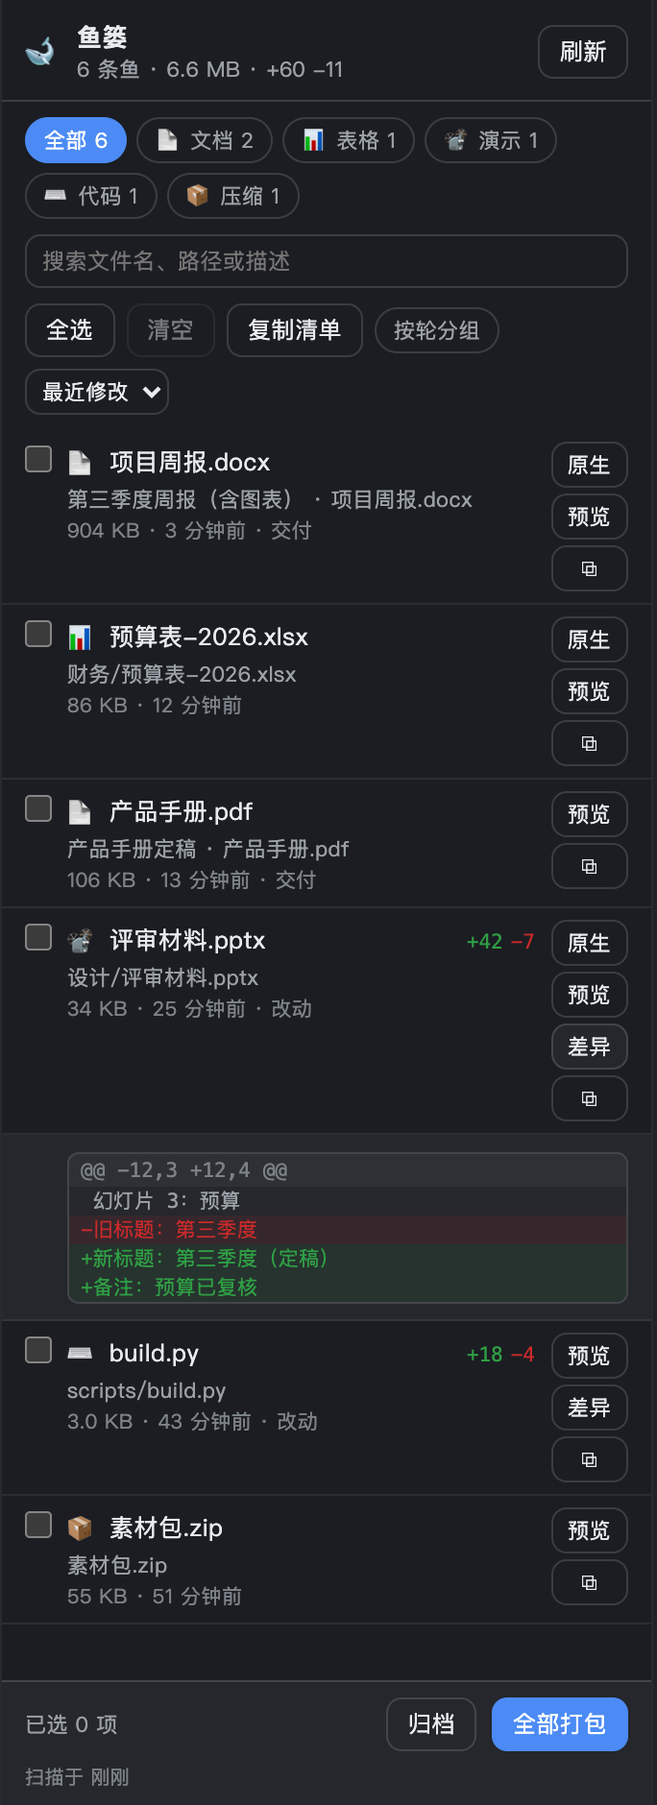
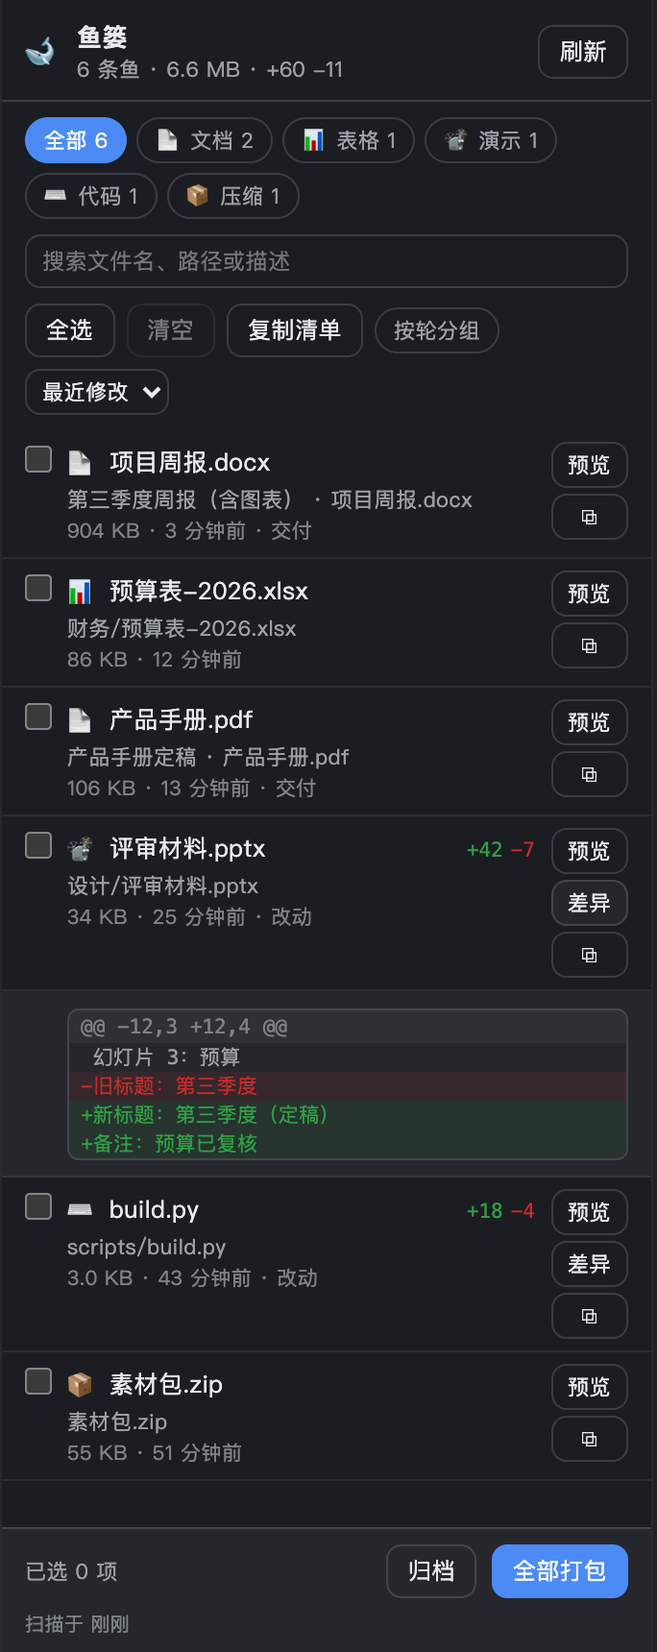
fix: 0.3.2 —— 预览统一走 Document Preview，修复 Desktop 静默失败
- Desktop 的 Electron 主进程 deny 所有 window.open（只放行 https 外链），原 /file 预览被静默拦截，表现为「点预览没反应」
- 预览改为 sidebarRight.openResource(file.native, { kind: 'text' })：图片/PDF/Markdown/文本/源码/Office 都在右侧栏打开
- cwd 外文件没有 native 地址时明确提示「复制路径或归档」；移除单独「原生」按钮
- 新增回归测试禁止客户端再出现 window.open(；README/README.en 预览图与文档同步；测试 68

diff --git a/lib/client.js b/lib/client.js
@@ -35,13 +35,11 @@
       var API = '/whale-catch/api/'
       /** 列表一次最多铺多少行；更大的鱼篓用「显示更多」分批渲染。 */
       var PAGE = 200
-      /** 浏览器侧 ctx，apply 时赋好；行内按钮靠它取 sidebarRight 打开原生预览。 */
+      /** 浏览器侧 ctx，apply 时赋好；预览按钮靠它取 sidebarRight 打开 Document Preview。 */
       var clientCtx = null
 
       /** 分类顺序与 Host 的 kinds.js 保持一致。 */
       var KINDS = ['doc', 'sheet', 'slide', 'image', 'code', 'archive', 'media', 'other']
-      /** 有 DSH 原生预览价值的 Office 后缀；其余文件继续走 /file 内联预览。 */
-      var NATIVE_EXTS = ['doc', 'docx', 'xls', 'xlsx', 'ppt', 'pptx']
       var KIND_EMOJI = {
         doc: '📄', sheet: '📊', slide: '📽', image: '🖼',
         code: '⌨', archive: '📦', media: '🎬', other: '🐚',
@@ -72,9 +70,8 @@
         'presented': '交付',
         'missing': '已删除',
         'open': '预览',
-        'nativeOpen': '用 DSH 原生预览打开',
-        'nativeShort': '原生',
-        'nativeFailed': '原生预览打不开，已回退普通预览',
+        'previewUnavailable': '这个文件不在会话工作目录里，暂时不能预览；可以复制路径或归档',
+        'previewFailed': '预览打不开；可以复制路径或归档',
         'copy': '复制路径',
         'copied': '路径已复制',
         'select': '选择',
@@ -156,9 +153,8 @@
         'presented': 'Delivered',
         'missing': 'Missing',
         'open': 'Open',
-        'nativeOpen': 'Open in the native DSH preview',
-        'nativeShort': 'Native',
-        'nativeFailed': 'Native preview failed — fell back to the normal preview',
+        'previewUnavailable': 'This file is outside the session working directory, so it cannot be previewed; copy its path or archive it instead',
+        'previewFailed': 'Preview could not open; copy the path or archive the file instead',
         'copy': 'Copy path',
         'copied': 'Path copied',
         'select': 'Select',
@@ -615,37 +611,32 @@
             .finally(function () { setBusy('') })
         }
 
-        function openFile(file) {
-          var url = API + 'file?session=' + encodeURIComponent(sessionId) + '&path=' + encodeURIComponent(file.path)
-          if (typeof window !== 'undefined') window.open(url, '_blank', 'noopener,noreferrer')
-        }
-
-        /** Office 文档才值得走原生预览；普通文本/图片继续用 /file 内联。 */
-        function canOpenNatively(file) {
-          return typeof file.native === 'string' && file.native !== '' && file.missing !== true &&
-            NATIVE_EXTS.indexOf(String(file.ext)) >= 0
-        }
-
         /**
-         * 把文件交给 DSH 的 Document Preview：Host 已经拼好 `dsh-resource://` 地址，
-         * 这里只负责打开。内核没装预览插件 / 地址被拒时回退普通预览，不让按钮变哑巴。
+         * 预览统一走 DSH 的 Document Preview。
+         *
+         * 不能用 window.open：Desktop 的 Electron 主进程把所有新窗口都 deny
+         * （只把 https 外链交给系统浏览器），http 的本机 /file 地址会被静默拦掉，
+         * 表现就是「点预览没反应」。Host 已经为 cwd 内文件生成好
+         * `dsh-resource://file/session/…` 地址，这里直接让右侧栏认领；
+         * cwd 外文件没有地址，明确给一句提示，不再假装能打开。
          */
-        function openNative(file) {
+        function openPreview(file) {
+          if (file.missing) return
           var right = null
           try {
             right = clientCtx && typeof clientCtx.get === 'function' ? clientCtx.get('sidebarRight') : null
           } catch (e) {
             right = null
           }
-          if (right === null || right === undefined || typeof right.openResource !== 'function') {
-            openFile(file)
+          if (right === null || right === undefined || typeof right.openResource !== 'function' ||
+              typeof file.native !== 'string' || file.native === '') {
+            setNotice(t('previewUnavailable'))
             return
           }
           try {
-            right.openResource(file.native)
+            right.openResource(file.native, { kind: 'text' })
           } catch (e) {
-            setNotice(t('nativeFailed'))
-            openFile(file)
+            setNotice(t('previewFailed'))
           }
         }
 
@@ -959,18 +950,10 @@
             }, meta.join(' · ')),
           ),
           h('div', { style: { display: 'flex', flexDirection: 'column', gap: '3px', flex: 'none' } },
-            canOpenNatively(file)
-              ? h('button', {
-                type: 'button',
-                title: t('nativeOpen'),
-                onClick: function (event) { event.stopPropagation(); openNative(file) },
-                style: Object.assign(buttonStyle(false, false), { fontSize: '11px', padding: '2px 8px' }),
-              }, t('nativeShort'))
-              : null,
             h('button', {
               type: 'button',
               title: t('open'),
-              onClick: function (event) { event.stopPropagation(); openFile(file) },
+              onClick: function (event) { event.stopPropagation(); openPreview(file) },
               disabled: file.missing,
               style: Object.assign(buttonStyle(false, file.missing), { fontSize: '11px', padding: '2px 8px' }),
             }, t('open')),

diff --git a/test/client.test.js b/test/client.test.js
@@ -112,3 +112,10 @@ test('导出 inject / apply，并正确注册 tab 类型与 pane 主体', () => 
   assert.equal(slot.definition.locale, 'whale-catch')
   assert.equal(typeof slot.component, 'function')
 })
+
+test('预览不再用 window.open（Desktop 会 deny 所有新窗口）', async () => {
+  const { readFileSync } = await import('node:fs')
+  const source = readFileSync(new URL('../lib/client.js', import.meta.url), 'utf8')
+  assert.equal(source.includes('window.open('), false, 'window.open 在 Desktop 会被静默拒绝，预览必须走 Document Preview')
+  assert.ok(source.includes('openResource('), '预览应调用 sidebarRight.openResource')
+})

diff --git a/README.en.md b/README.en.md
@@ -21,10 +21,10 @@
 </div>
 
 <p align="center">
-  <img src="https://raw.githubusercontent.com/Rosynb666/dsh-whale-catch/main/docs/preview.png" alt="Whale Catch 0.3.0 panel preview: sorting, native preview and inline diff" width="760">
+  <img src="https://raw.githubusercontent.com/Rosynb666/dsh-whale-catch/main/docs/preview.png" alt="Whale Catch 0.3.2 panel preview: sorting, preview action and inline diff" width="760">
 </p>
 
-<p align="center"><sub>🧪 Static 0.3.0 panel preview rendered with the real component in <code>lib/client.js</code> and sample data — not a live DSH screenshot. Sorting, the native Office button and the inline diff are all visible; colours follow your theme.</sub></p>
+<p align="center"><sub>🧪 Static 0.3.2 panel preview rendered with the real component in <code>lib/client.js</code> and sample data — not a live DSH screenshot. Sorting, the preview action and the inline diff are all visible; colours follow your theme.</sub></p>
 
 A right-sidebar plugin for [DeepSeek Harness](https://github.com/deepseek-ai/deepseek-harness) (DSH): it collects the files a session **produced or changed** into one basket, with preview, inline diff, search, grouping, zip, archive and copy-as-Markdown.
 
@@ -80,7 +80,7 @@ This is not reinventing the wheel: both `deliverables/presented` and `workspace/
 | Capability | What you get |
 |---|---|
 | 🧺 **Automatic collection** | `present` declarations, `workspace/changes` edits, and a cwd scan merged by absolute path |
-| 👀 **In-place preview** | images / PDF / text / common source files open in a new tab; HTML / SVG render in a CSP sandbox; docx / xlsx / pptx open in the native DSH preview; text files with unknown extensions are sniffed and inlined |
+| 👀 **In-place preview** | images / PDF / Markdown / text / source / Office open in the right sidebar through DSH Document Preview; files outside cwd show a copy-path-or-archive hint |
 | 🔍 **Inline diff** | unified diff for kernel-recorded changes: `+` / `−` colours, `@@` headers, new / deleted / binary / oversized notes |
 | 🧭 **Search & grouping** | search by name / path / description; kind chips; group by “Turn N”; copy as Markdown |
 | 📦 **Zip** | selected or all files; `manifest.json` + a human-readable checklist inside; cwd-outside files under `_external/` |
@@ -90,14 +90,19 @@ This is not reinventing the wheel: both `deliverables/presented` and `workspace/
 | 🌐 **Bilingual** | Chinese and English dictionaries; localised error codes |
 | ⚡ **Zero build** | `lib/client.js` is handed to `__ModuleLoader__` as-is |
 
+### 🎁 What's new in 0.3.2
+
+- 🪟 **Preview no longer opens a new window**: the Desktop Electron main process denies every `window.open` (only `https:` links are handed to the system browser), which was why the preview button silently did nothing. Preview now goes through DSH Document Preview, so images / PDF / Markdown / text / source / Office all open in the right sidebar.
+- 📍 One preview entry; files outside cwd get an explicit “copy path or archive” hint.
+- 🖼 Preview image re-rendered from the 0.3.2 panel (sorting + preview action + inline diff).
+
 ### 🎁 What's new in 0.3.1
 
-- 🔎 **Unknown extensions preview too**: `.patch` / `.bak` files are sniffed (first 8 KiB); text renders as `text/plain` instead of downloading — which looked like a dead button in Electron.
-- 🖼 README preview image re-rendered from the 0.3.0 panel: sorting, the native Office button and inline diff are all visible.
+- 🔎 **Unknown extensions are readable too**: `/file` sniffs the first 8 KiB of `.patch` / `.bak` files and returns `text/plain` for text instead of forcing a download.
 
 ### 🎁 What's new in 0.3.0
 
-- 📄 **Native Office preview**: click **Native** on a docx / xlsx / pptx to open it in DSH's Document Preview; the kernel's `officeToPdf` does the conversion, and the panel falls back to the normal preview when the preview plugin is disabled or the file lives outside cwd.
+- 📄 **Office documents go to Document Preview**: docx / xlsx / pptx render as PDFs via the kernel's `officeToPdf`; since 0.3.2 they share the single preview entry with every other file.
 - ↕ **Sorting**: modified / name / size / kind; missing files always sink to the bottom.
 - 🪟 **Batched rendering**: the first 200 rows render immediately, **Show more** appends the rest — 800 entries no longer render at once.
 - 🧹 **Optional archive retention**: with `archiveKeep: 2`, every archive run gets its own batch directory and only the newest two are kept; the default `0` keeps the old layout unchanged.
@@ -191,8 +196,7 @@ A narrow sidebar layout (illustrative; actual width follows the sidebar):
 | ↕ **Sort** | modified / name / size / kind; re-renders immediately |
 | 📋 **Copy list** | export the selection (or current filter) as Markdown for a report or issue |
 | ⧉ **Copy path** | copy the absolute path |
-| 👁 **Open** | open the original file in a new tab; images / PDF / text / source inline |
-| 📄 **Native** | hand docx / xlsx / pptx to DSH's Document Preview in the right sidebar |
+| 👁 **Open** | open in the right sidebar through DSH Document Preview (images / PDF / Markdown / text / source / Office); files outside cwd show a hint |
 | 🧾 **Diff** | expand the kernel's unified diff; only entries with a `workspace/changes` record have one |
 | 📦 **Zip** | download a zip with the delivery manifest |
 | 🗂 **Archive** | copy into the configured archive directory; shows “N archived / M failed” |
@@ -344,7 +348,7 @@ The routes live on the loopback Host. The threat model is **a third-party page i
 | Item | Range |
 |---|---|
 | DSH | `>= 0.2.0-rc.2` |
-| Native preview | needs DSH `>= 0.2.1` (Document Preview + `sidebarRight.openResource()`); older versions fall back to the normal preview |
+| Preview | needs DSH `>= 0.2.1` (Document Preview + `sidebarRight.openResource()`); cwd files preview, files outside cwd show a hint |
 | Node | `^22.19 || >=24` |
 | Platforms | macOS / Windows / Linux (CI: three platforms × Node 22/24) |
 | Build | none; `lib/client.js` loads as-is |
@@ -361,7 +365,7 @@ The routes live on the loopback Host. The threat model is **a third-party page i
 | Diffs depend on kernel capability | a Host without `workspaceChanges.diff()` shows the “no readable diff” note |
 | Long diffs truncated | `/diff` returns at most 1200 lines; the panel renders at most 300 lines per hunk |
 | No archive cleanup by default | the archive lives under `$DSH_HOME` and is not pruned; set `archiveKeep` to retain batches |
-| Browser-bound preview | PDF / images / text / common source inline; HTML/SVG sandboxed; Office opens in the native DSH preview; unknown extensions are sniffed for text, real binaries still download |
+| Preview needs the DSH preview plugin | preview goes through Document Preview; a disabled plugin shows a notice. Files outside cwd have no `dsh-resource` address, so the panel asks you to copy the path or archive |
 | Large lists | the first 200 rows render, the rest via **Show more**; no true virtualization yet; search is substring only |
 | Dot-files not auto-collected | `.env` and friends need an explicit `present` |
 
@@ -380,9 +384,9 @@ Only files with a `workspace/changes` record have before/after snapshots. Scanne
 </details>
 
 <details>
-<summary><b>Why does docx / xlsx download instead of preview?</b></summary>
+<summary><b>Why does the preview button do nothing?</b></summary>
 
-Browsers do not render Office natively. Click **Native** on the row and Whale Catch hands the file to DSH's Document Preview, which renders it as a PDF in the right sidebar; only files outside cwd, or a disabled preview plugin, fall back to a download.
+Since 0.3.2 preview goes through DSH's Document Preview instead of opening a new window. The old code used `window.open` on the local `/file` URL, which the Desktop Electron main process denies silently (it only forwards `https:` links), so the button looked broken. After upgrading, cwd files should open in the right sidebar; files outside cwd show a copy-path-or-archive hint.
 </details>
 
 <details>
@@ -401,7 +405,7 @@ npm pack --dry-run --cache="$(mktemp -d)"
 
 ```sh
 npm install
-npm test        # 67 tests: scan / merge / change metadata / streaming zip / Range / HTTP fence / diff trim / native addresses / archive retention / plugin load
+npm test        # 68 tests: scan / merge / change metadata / streaming zip / Range / HTTP fence / diff trim / native addresses / archive retention / plugin load
 npm run check   # contract self-check: package shape, patch, client.inject, locale meta, icon, deps
 npm run verify  # check + test
 ```

diff --git a/README.md b/README.md
@@ -21,10 +21,10 @@
 </div>
 
 <p align="center">
-  <img src="https://raw.githubusercontent.com/Rosynb666/dsh-whale-catch/main/docs/preview.png" alt="深海鱼篓 0.3.0 面板预览：排序、原生预览与行内差异" width="760">
+  <img src="https://raw.githubusercontent.com/Rosynb666/dsh-whale-catch/main/docs/preview.png" alt="深海鱼篓 0.3.2 面板预览：排序、预览入口与行内差异" width="760">
 </p>
 
-<p align="center"><sub>🧪 0.3.0 面板静态预览：用 <code>lib/client.js</code> 里真实的面板组件 + 示例数据渲染，不是 DSH 实机截图。排序框、Office「原生」按钮、行内差异都在图里；实际配色跟随你的主题。</sub></p>
+<p align="center"><sub>🧪 0.3.2 面板静态预览：用 <code>lib/client.js</code> 里真实的面板组件 + 示例数据渲染，不是 DSH 实机截图。排序框、预览入口、行内差异都在图里；实际配色跟随你的主题。</sub></p>
 
 给 [DeepSeek Harness](https://github.com/deepseek-ai/deepseek-harness)（DSH）的右侧栏插件：把一场会话里**产出或改动过的文件**汇总到「鱼篓」里，支持预览、行内差异、搜索、按轮分组、打包 zip、归档与复制清单。
 
@@ -80,7 +80,7 @@
 | 能力 | 你会看到什么 |
 |---|---|
 | 🧺 **自动收集** | `present` 声明、`workspace/changes` 改动、cwd 目录扫描三条来源合并；同一个绝对路径取并集 |
-| 👀 **就地预览** | 图片 / PDF / 文本 / 常见源码在新标签页直接看；HTML / SVG 在 CSP 沙箱里渲染；docx / xlsx / pptx 一键交给 DSH 原生预览；未知后缀的文本文件嗅探后内联 |
+| 👀 **就地预览** | 图片 / PDF / Markdown / 文本 / 源码 / Office 统一在右侧栏用 DSH Document Preview 打开；cwd 外文件会提示复制路径或归档 |
 | 🔍 **行内差异** | 对内核记录过的改动展开 unified diff：`+` / `−` 着色、`@@` 段头、新增 / 删除 / binary / oversized 提示 |
 | 🧭 **搜索与分组** | 按文件名 / 路径 / 描述搜索；按分类 chip 过滤；按「第 N 轮」分组；复制 Markdown 清单 |
 | 📦 **打包 zip** | 只打选中项或全部；包内附 `manifest.json` + `交付清单.md`；cwd 外文件统一 `_external/` |
@@ -90,14 +90,19 @@
 | 🌐 **中英双语** | 面板字典中英对齐；错误码有本地化文案 |
 | ⚡ **零构建** | `lib/client.js` 原样交给 `__ModuleLoader__`，没有打包步骤 |
 
+### 🎁 0.3.2 亮点
+
+- 🪟 **预览不再开新窗口**：Desktop 的 Electron 主进程会 deny 所有 `window.open`（只放行 `https:` 外链），之前「点预览没反应」就是这个原因。现在统一交给 DSH Document Preview：图片 / PDF / Markdown / 文本 / 源码 / Office 都在右侧栏打开。
+- 📍 只保留一个「预览」入口；cwd 外文件明确提示「复制路径或归档」，不再假装能打开。
+- 🖼 预览图按 0.3.2 面板重新渲染（排序 + 预览入口 + 行内差异）。
+
 ### 🎁 0.3.1 亮点
 
-- 🔎 **未知后缀也能预览**：`.patch`、`.bak` 这类文件先嗅探前 8 KiB，是文本就按 `text/plain` 内联，不再一律触发下载（Electron 里看起来像「点预览没反应」）。
-- 🖼 README 预览图换成 0.3.0 面板实渲染：排序框、Office「原生」按钮、行内差异都在图里。
+- 🔎 **未知后缀也能读**：`/file` 对 `.patch`、`.bak` 这类文件先嗅探前 8 KiB，是文本就按 `text/plain` 返回，不再一律触发下载。
 
 ### 🎁 0.3.0 亮点
 
-- 📄 **Office 原生预览**：docx / xlsx / pptx 点「原生」即可在右侧栏用 DSH 的 Document Preview 打开，转换由内核 `officeToPdf` 完成；禁用预览插件或 cwd 外文件时自动回退普通预览。
+- 📄 **Office 文档交给 Document Preview**：docx / xlsx / pptx 由 DSH 的预览按 PDF 渲染，转换交给内核 `officeToPdf`；0.3.2 起与其他文件统一成一个「预览」入口。
 - ↕ **排序**：最近修改 / 名称 / 体积 / 类型，四档切换；已删除文件永远沉底。
 - 🪟 **分批渲染**：先铺 200 行，点「显示更多」再追加——800 条也不会一次全渲染。
 - 🧹 **归档保留策略**（可选）：`archiveKeep: 2` 时每次归档写进独立批次目录，只保留最近 2 批；默认 `0` 保持旧布局，行为不变。
@@ -191,8 +196,7 @@ dsh plugin --profile <profile> remove dsh-whale-catch
 | ↕ **排序** | 最近修改 / 名称 / 体积 / 类型，选择后立即重排 |
 | 📋 **复制清单** | 当前勾选（没有勾选时用当前筛选）导出 Markdown，贴周报 / Issue |
 | ⧉ **复制路径** | 复制绝对路径，贴给别的工具最省事 |
-| 👁 **预览** | 新标签页打开原文件；图片 / PDF / 文本 / 源码内联 |
-| 📄 **原生** | docx / xlsx / pptx 交给 DSH 的 Document Preview，在右侧栏直接看 |
+| 👁 **预览** | 在右侧栏用 DSH Document Preview 打开（图片 / PDF / Markdown / 文本 / 源码 / Office）；cwd 外文件提示不可预览 |
 | 🧾 **差异** | 就地展开内核留下的 unified diff；只有带 `workspace/changes` 记录的条目才有 |
 | 📦 **打包 zip** | 生成带交付清单的 zip，直接下载 |
 | 🗂 **归档** | 复制到配置的归档目录，失败会显示「成功 N / 失败 M」 |
@@ -344,7 +348,7 @@ session/event
 | 项目 | 支持范围 |
 |---|---|
 | DSH | `>= 0.2.0-rc.2` |
-| 原生预览 | 需要 DSH `>= 0.2.1` 的 Document Preview 与 `sidebarRight.openResource()`；低版本自动回退普通预览 |
+| 预览 | 需要 DSH `>= 0.2.1` 的 Document Preview 与 `sidebarRight.openResource()`；cwd 内文件均可预览，cwd 外文件给提示 |
 | Node | `^22.19 || >=24` |
 | 平台 | macOS / Windows / Linux（CI 三平台 × Node 22/24） |
 | 构建 | 无；`lib/client.js` 原样加载 |
@@ -361,7 +365,7 @@ session/event
 | 差异依赖内核能力 | 宿主没有 `workspaceChanges.diff()` 时面板只给提示 |
 | 长 diff 截断 | `/diff` 最多 1200 行，面板每条 hunk 最多铺 300 行 |
 | 归档不自动清理 | 默认在 `$DSH_HOME` 下不清理；需要保留策略时设置 `archiveKeep` |
-| 预览受浏览器能力限制 | PDF / 图片 / 文本 / 常见源码内联；HTML/SVG 沙箱；Office 走 DSH 原生预览；未知后缀先嗅探文本，真正的二进制仍按附件下载 |
+| 预览依赖 DSH 预览插件 | 预览走 Document Preview；插件被禁用时面板提示打不开。cwd 外文件没有 `dsh-resource` 地址，提示复制路径或归档 |
 | 大列表分批渲染 | 先铺 200 行、点「显示更多」追加；还没有真正的窗口化；搜索是子串匹配 |
 | 点文件不自动收集 | `.env` 等需要 `present` 显式声明 |
 
@@ -380,9 +384,9 @@ session/event
 </details>
 
 <details>
-<summary><b>为什么 docx / xlsx 点预览变成下载？</b></summary>
+<summary><b>为什么点预览没有反应？</b></summary>
 
-浏览器原生不渲染 Office。点行右侧的「原生」，鱼篓会把文件交给 DSH 自带的 Document Preview，在右侧栏里按 PDF 渲染；只有 cwd 外文件或禁用预览插件时才会回退成附件下载。
+0.3.2 起预览统一走 DSH 的 Document Preview，不再开新窗口。之前用 `window.open` 打开本机 `/file` 地址，会被 Desktop 的 Electron 主进程静默拒绝（它只放行 `https:` 外链），所以看起来像按钮坏了。升级到 0.3.2 后，cwd 内文件点「预览」应在右侧栏打开；cwd 外文件会提示复制路径或归档。
 </details>
 
 <details>
@@ -401,7 +405,7 @@ npm pack --dry-run --cache="$(mktemp -d)"
 
 ```sh
 npm install
-npm test        # 67 项：扫描 / 合并 / 改动元数据 / 流式 zip / Range / HTTP 栅栏 / 差异裁剪 / 原生地址 / 归档保留 / 插件装载
+npm test        # 68 项：扫描 / 合并 / 改动元数据 / 流式 zip / Range / HTTP 栅栏 / 差异裁剪 / 原生地址 / 归档保留 / 插件装载
 npm run check   # 契约自检：包结构、patch、client.inject、locale meta、icon、依赖纪律
 npm run verify  # check + test
 ```

diff --git a/docs/architecture.md b/docs/architecture.md
@@ -56,17 +56,28 @@
 
 所以 `/diff` 只是一层**准入 + 转发 + 裁剪**：路径必须在鱼篓里、条目必须有 `seq + index`，然后原样调 `ctx.workspaceChanges.diff()`；Host 版本没有这个能力就回 `no-diff`，面板降级成一句提示。行数徽章同理——`added` / `deleted` 是内核算好的，不重算。
 
-## 为什么原生预览地址由 Host 生成
+## 为什么预览统一交给 Document Preview
 
-0.3.0 让 Office 文档能直接在右侧栏看，但鱼篓自己**不写渲染器**：内核的 Document Preview 早就能把 docx / xlsx / pptx 经 `officeToPdf` 转成 PDF，面板只需要把文件"指"给它。指向的方式是 `dsh-resource://file/session/<sessionId>/<相对路径>` 地址，然后调 `ctx.sidebarRight.openResource()`。
+0.3.0 只把 Office 文档指给内核的 Document Preview；0.3.2 把所有预览都收了过去。触发点是 Desktop 的 Electron 主进程：
+
+```js
+view.webContents.setWindowOpenHandler(({ url }) => {
+  if (new URL(url).protocol === 'https:') shell.openExternal(url)
+  return { action: 'deny' }
+})
+```
+
+它对**所有** `window.open` 返回 deny，只把 `https:` 外链交给系统浏览器。鱼篓原来用 `window.open` 打开本机 `/file` 地址（`http:`），于是被静默拦掉——用户看到的就是「点预览没反应」。md、patch、图片、PDF 全都一样，与文件类型无关。
+
+修法不是绕过 deny，而是根本不新开窗口：内核的 Document Preview 本来就支持图片 / PDF / Markdown / 文本 / 源码 / Office，面板只需要把文件"指"给它。指向的方式是 `dsh-resource://file/session/<sessionId>/<相对路径>` 地址，然后调 `ctx.sidebarRight.openResource(address, { kind: 'text' })`。
 
 地址放在 Host 的 `Basket.snapshot()` 里生成，而不是让客户端拼字符串，原因有三个：
 
 - **只有 Host 知道权威 cwd**：客户端的 cwd 是从会话快照里"借"来的，Host 的 `Basket.cwd` 才是登记文件时用的那个；
 - **编码只有一处实现**：逐段 `encodeURIComponent`、Windows 反斜杠转 POSIX、`..` 前缀判断（不能误杀 `..foo` 这种文件名）都集中在 `nativePreviewAddress()`，测试直接锁死；
-- **cwd 外文件天然没有地址**：绝对路径虽然地址语法支持 `absolute` scope，但当前 Document Preview 的类型只接受 `session` scope，所以这些文件返回 `native: null`，面板回退 `/file` 预览。以后内核放开 absolute scope，只需要改这一个函数。
+- **cwd 外文件天然没有地址**：绝对路径虽然地址语法支持 `absolute` scope，但当前 Document Preview 的类型只接受 `session` scope，所以这些文件返回 `native: null`，面板明确提示「复制路径或归档」。以后内核放开 absolute scope，只需要改这一个函数。
 
-客户端只做三件事：判断后缀是不是 Office、在 `sidebarRight` 可用时调 `openResource`、失败时回退普通预览。`sidebarRight` 不做硬性 inject：禁用右侧栏相关插件时鱼篓仍然可用。
+客户端只做三件事：取 `sidebarRight`、有 `native` 地址就调 `openResource`、失败时给提示。**不再出现 `window.open`**，client 测试里有一条静态检查防止回潮。`sidebarRight` 不做硬性 inject：禁用右侧栏相关插件时鱼篓仍然可用（只是预览给提示）。
 
 ## 归档保留策略为什么是可选的
 
@@ -135,7 +146,7 @@
 
 - **纯函数**（`scan` / `basket` / `zip` / `http`）单独测，不碰 Host。
 - **路由**用真实 `node:http` 服务 + `fetch` 打过去，测的是客户端实际会发的请求；覆盖 Range/ETag、cwd 外 zip 路径、归档失败与超大文件跳过。
-- **client bundle** 用假 `window.__ModuleLoader__` + 假 React 装配一遍，断言注册了正确的 tab/slot/locale，并检查中英文字典键集一致。
+- **client bundle** 用假 `window.__ModuleLoader__` + 假 React 装配一遍，断言注册了正确的 tab/slot/locale，并检查中英文字典键集一致；另有一条静态断言禁止源码出现 `window.open(`，防止预览在 Desktop 上再次静默失效。
 - **插件入口**用假 `ctx` 装配，模拟 `deliverables/presented` 事件后真的能从 HTTP 读到文件；并验证 GET /basket 只读缓存、POST /refresh 才重扫。
 - **原生预览地址**：纯函数测中文/空格/`#`、`..foo` 边界、cwd 外与空 session；`Basket.snapshot()` 断言 `native` 字段与删除后置空。
 - **归档保留**：真实 HTTP 连打三次 `/archive`，断言只留最近两批、`pruned` 数量、手工目录不被误删；`archiveKeep = 0` 断言不建 `runs/` 且响应没有 `pruned`。

diff --git a/docs/publish.md b/docs/publish.md
@@ -112,14 +112,14 @@ npm run verify
 ```
 
 - [ ] `npm run check` 全绿（包结构 / patch / client.inject / meta / icon / 依赖纪律）
-- [ ] `npm test` 全绿（67 项）
+- [ ] `npm test` 全绿（68 项）
 - [ ] npm 发布路径可用：npm 包里已绑定 Trusted Publishing，或仓库里有有效的 `NPM_TOKEN` 回落
 - [ ] `npm pack --dry-run` 的文件清单符合预期
 - [ ] 在干净的 profile 里装一次（Desktop 走 设置 → 插件 → 安装，CLI 用 `dsh plugin --profile <profile> add <tarball 或仓库地址>`）
 - [ ] 刷新页面，右侧栏 `+` 能看到「打开深海鱼篓」，点开能列出文件
 - [ ] 勾两个文件打包，解压后路径与内容正确，且包含 `_whale-catch/manifest.json` 与 `交付清单.md`
 - [ ] 点开一条改动文件的「差异」能看到 hunk（`+` / `−` 着色）；扫描进来的文件没有「差异」按钮
-- [ ] docx / xlsx 点「原生」能在右侧栏打开 DSH Document Preview；禁用预览插件后回退普通预览
+- [ ] 任意 cwd 内文件点「预览」能在右侧栏打开 DSH Document Preview（md / 图片 / PDF / Office）；cwd 外文件提示不可预览
 - [ ] 切换排序、点「显示更多」、搜索 / 分组组合工作正常
 - [ ] 归档一次，确认落在 `$DSH_HOME/whale-catch/archive/<sessionId>/` 下；设 `archiveKeep: 2` 后连归档三次只剩两个批次
 - [ ] 卸载后右侧栏入口消失（Desktop：设置 → 插件 → 卸载）

diff --git a/CHANGELOG.md b/CHANGELOG.md
@@ -2,6 +2,14 @@
 
 本项目遵循 [Keep a Changelog](https://keepachangelog.com/zh-CN/1.1.0/) 与 [SemVer](https://semver.org/lang/zh-CN/)。
 
+## [0.3.2] - 2026-10-30
+
+### 修复
+
+- **桌面端「点预览没反应」**：DSH Desktop 的 Electron 主进程对所有 `window.open` 返回 deny（只把 `https:` 外链交给系统浏览器），鱼篓用 `window.open` 打本机 `/file` 地址一直被静默拦截。
+- 预览统一改走 DSH Document Preview：cwd 内文件由 Host 生成 `dsh-resource://file/session/…` 地址，客户端调 `sidebarRight.openResource()`；图片 / PDF / Markdown / 文本 / 源码 / Office 都在右侧栏打开。cwd 外文件明确提示「复制路径或归档」，不再假装能打开。
+- 移除单独的「原生」按钮，只保留一个「预览」入口；新增回归测试禁止客户端再出现 `window.open(`。
+
 ## [0.3.1] - 2026-10-30
 
 ### 修复
